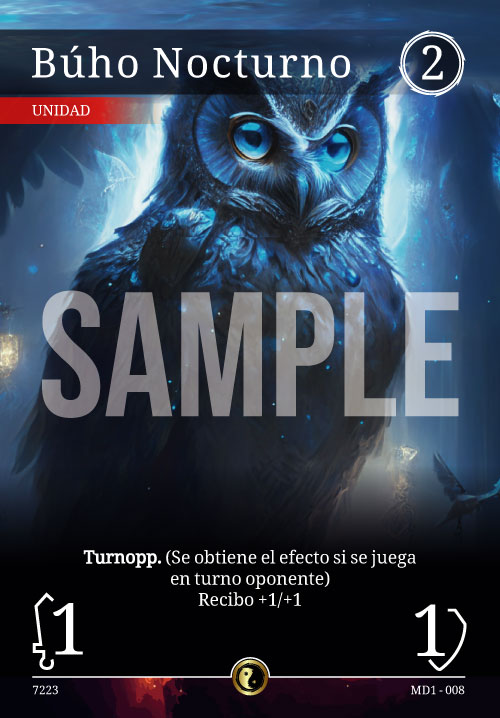
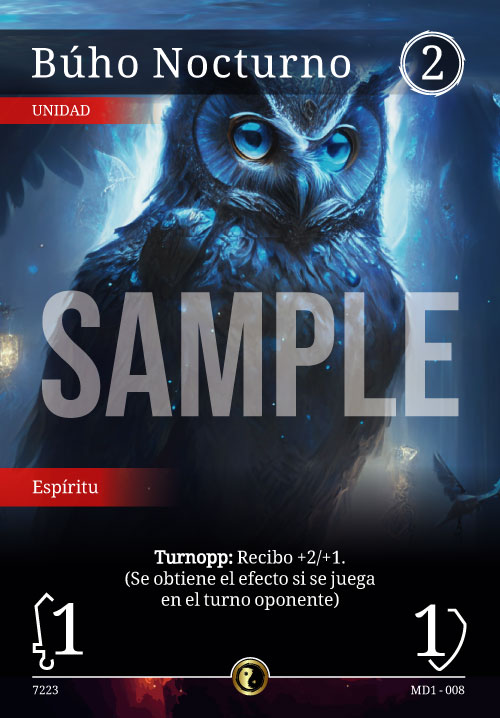
fix ssd and cards

Changed region(s): [[0.15, 0.766, 0.84, 0.8579], [0.0, 0.6435, 0.33, 0.7047]]

diff --git a/src/components/CardList/CardListComponent.tsx b/src/components/CardList/CardListComponent.tsx
@@ -29,7 +29,7 @@ export const CardListComponent = ({cards, detail=true, grid="5"}: Props) => {
 
   return (
     <>
-    <section className={`grid lg:grid-cols-${grid} md:grid-cols-2 grid-cols-1 gap-3 my-8 justify-items-center relative`}>
+    <section className={`grid lg:grid-cols-4 md:grid-cols-2 grid-cols-1 gap-3 my-8 justify-items-center relative`}>
       {cards.map((card, i) => 
         <div key={card._id} className="cursor-pointer" onClick={() => setCardDetailData(i)}>
           <CardView img={`/cards/${card.code}-${card.id}.jpg`} alt={card.name} title={`Click para ver al detalle a ${card.name}`}/>

diff --git a/src/app/cartas/components/CardDetail/CardDetail.tsx b/src/app/cartas/components/CardDetail/CardDetail.tsx
@@ -58,7 +58,7 @@ export const CardDetail = ({cards, close, index}: Props) => {
                       <th className="py-3">Fuerza</th>
                       <td className="py-3 font-light">{card?.force}</td>
                       <th className="py-3">Defensa</th>
-                      <td className="py-3 font-light">{card?.defence}</td>
+                      <td className="py-3 font-light">{card?.defense}</td>
                     </tr>
                     <tr className="border-b">
                       <th className="py-3">Arqueotipo</th>

diff --git a/src/app/productos/mazo-demonios/page.tsx b/src/app/productos/mazo-demonios/page.tsx
@@ -68,6 +68,7 @@ const DemonsDeck = async () => {
                             <li>1 Manual de inicio</li>
                             <li>1 Ficha de Ataque</li>
                         </ul>
+                        <p>Tienes la posibilidad de que en 1 de cada 6 mazos de Arte de la Destrucción encuentres 1 Bahamoot Aniquilador con <b>arte alternativo</b>.</p>
                         </div>
                     </article>
 

diff --git a/src/app/productos/mazo-espiritus/page.tsx b/src/app/productos/mazo-espiritus/page.tsx
@@ -67,6 +67,7 @@ const SpiritsDeck = async () => {
                             <li>1 Manual de inicio</li>
                             <li>1 Ficha de Ataque</li>
                         </ul>   
+                        <p>Tienes la posibilidad de que en 1 de cada 6 mazos de El Árbol de la vida encuentres 1 Copito de Nieve con <b>arte alternativo</b>.</p>
                     </div>
                 </article>
 

diff --git a/src/app/productos/mazo-angeles/page.tsx b/src/app/productos/mazo-angeles/page.tsx
@@ -68,6 +68,7 @@ const AngelsDeck = async () => {
                             <li>1 Manual de inicio</li>
                             <li>1 Ficha de Ataque</li>
                         </ul>
+                        <p>Tienes la posibilidad de que en 1 de cada 6 mazos de Amanecer Celestial encuentres 1 Aleksandra con <b>arte alternativo</b>.</p>
                         </div>
                     </article>
 

diff --git a/src/app/productos/mazo-humanos/page.tsx b/src/app/productos/mazo-humanos/page.tsx
@@ -68,6 +68,7 @@ const HumansDeck = async () => {
                         <li>1 Manual de inicio</li>
                         <li>1 Ficha de Ataque</li>
                     </ul>
+                    <p>Tienes la posibilidad de que en 1 de cada 6 mazos de Despliegue de la Armada encuentres 1 Ariete con <b>arte alternativo</b>.</p>
                     </div>
                 </article>
 

diff --git a/src/models/cards.model.ts b/src/models/cards.model.ts
@@ -5,7 +5,7 @@ export interface Card {
     code: string;
     cost: string;
     force: string;
-    defence: string;
+    defense: string;
     effect: string;
     img: string;
     limit: string;
